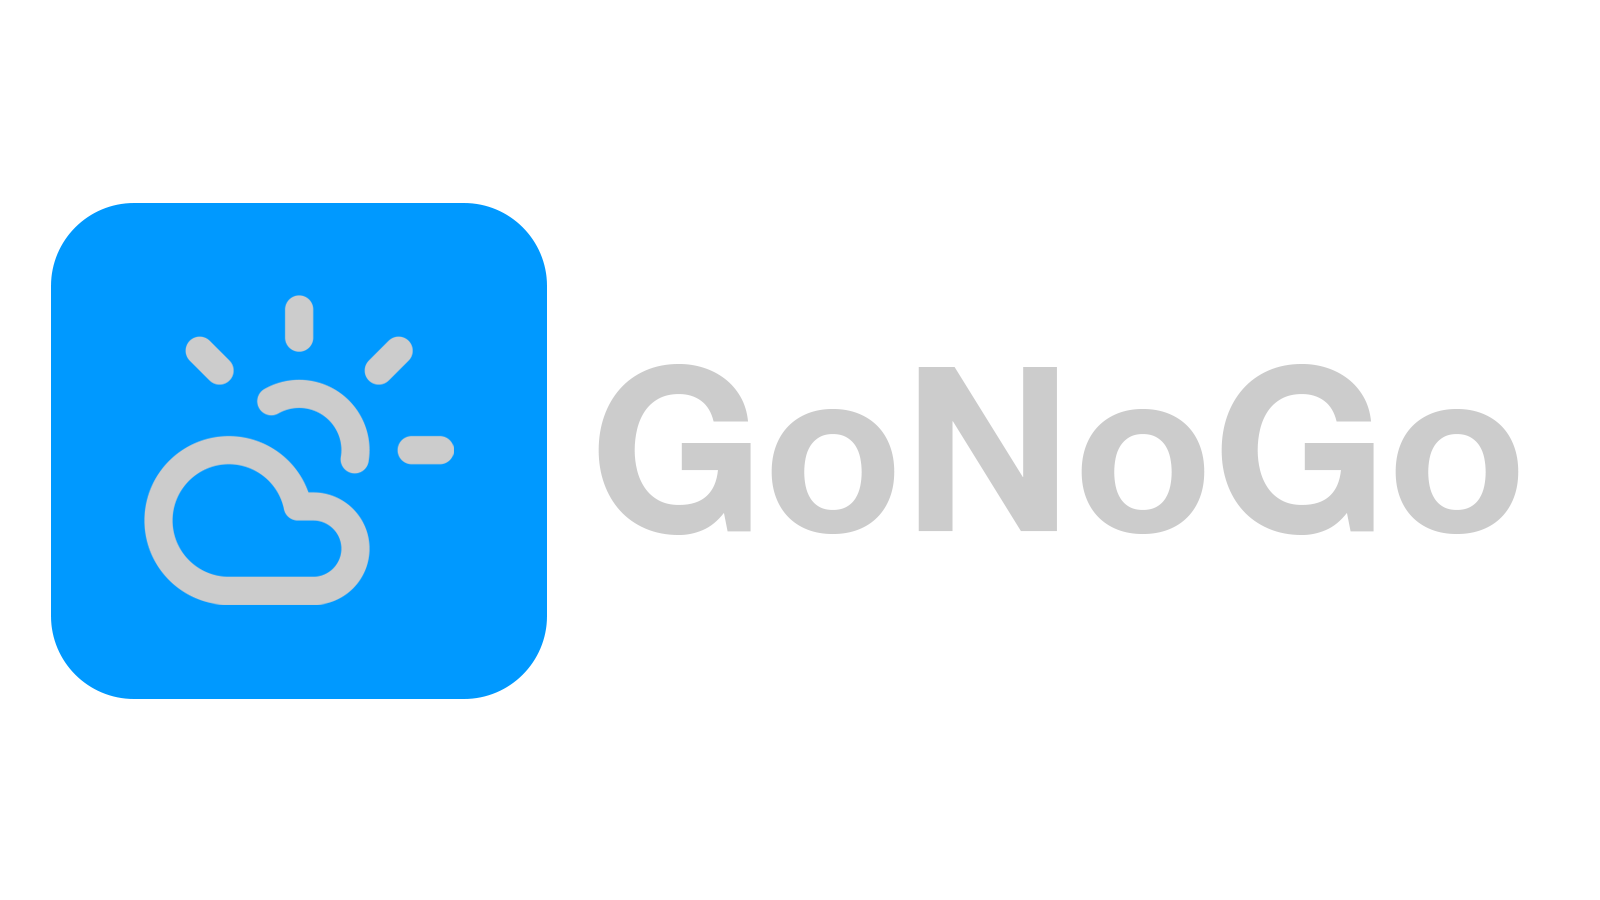
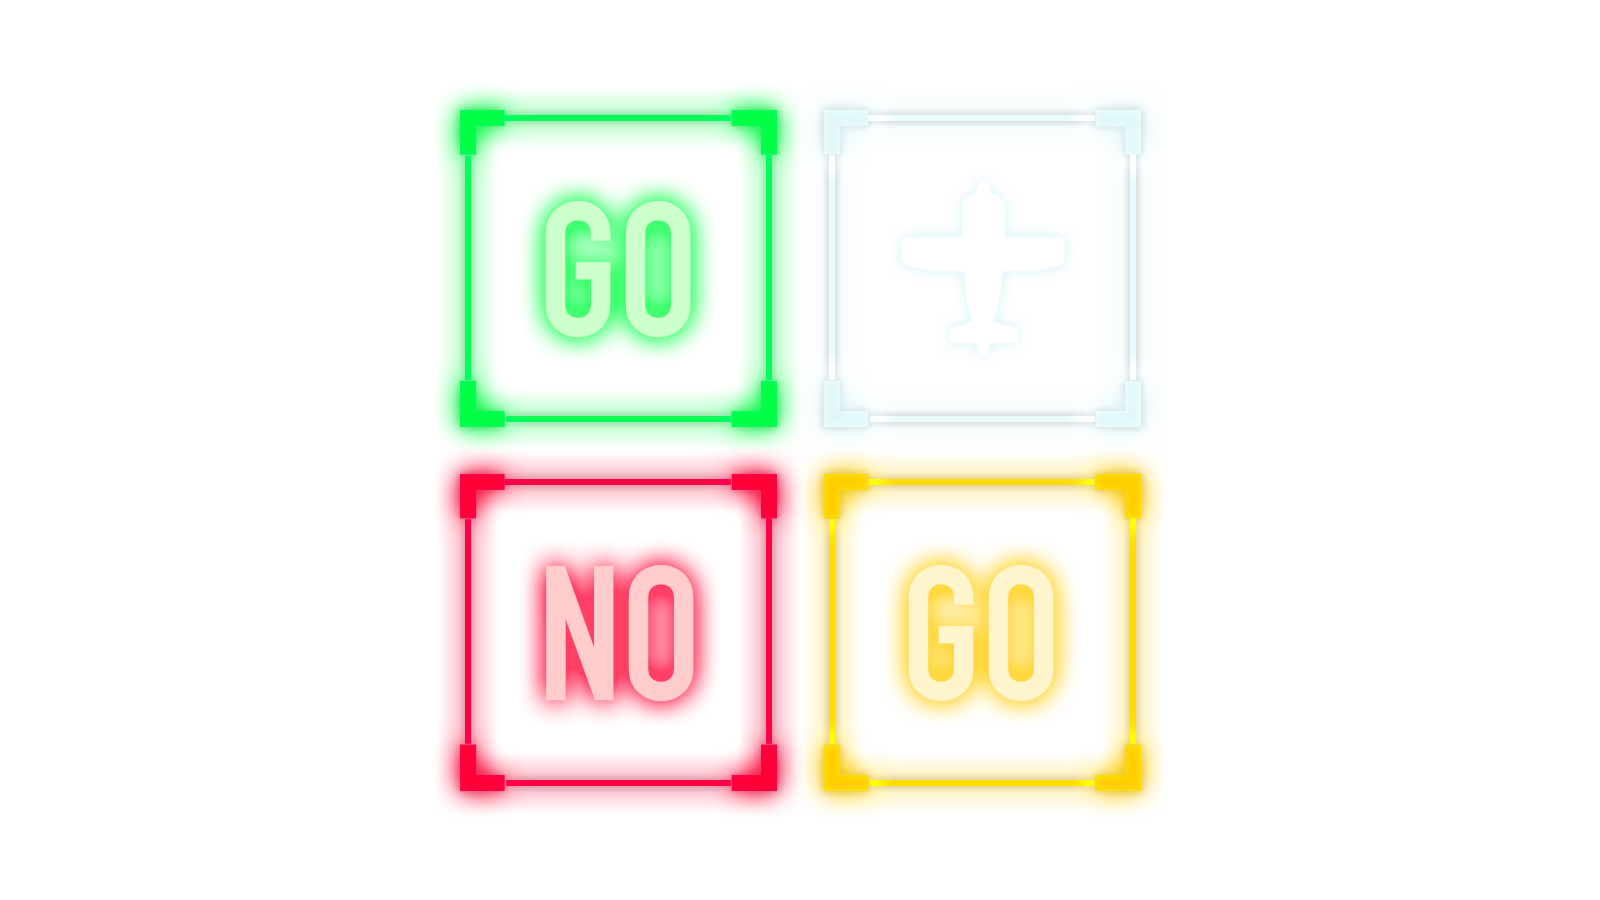
Content Updates

diff --git a/src/content/config.ts b/src/content/config.ts
@@ -20,7 +20,9 @@ const projectsCollection = defineCollection({
     status: statusEnum,
     heroImage: z.string().optional(),
     demoUrl: z.string().url().optional(),
-    repoUrl: z.string().url().optional(),
+    gitUrl: z.string().url().optional(),
+    dockerUrl: z.string().url().optional(),
+    url: z.string().url().optional(),
     order: z.number().default(0),
   }),
 });

diff --git a/src/content/projects/calendar-app.md b/src/content/projects/calendar-app.md
@@ -3,15 +3,13 @@ title: "Calendar App"
 description: "A Simple Self-Hosted Calendar App"
 status: "Active Development"
 demoUrl: "https://calendar-demo.conway.im"
+dockerUrl: "https://hub.docker.com/r/thebronway/calendar-app"
+gitUrl: "https://github.com/thebronway/calendar-app"
 heroImage: "/images/thumbnails/CalendarApp-card.png"
 ---
 # A Simple Self-Hosted Calendar App
 
 > **Note:** This app is nearing its full production release.
-
-**Links:**
-* [GitHub Repository](https://github.com/thebronway/calendar-app)
-* [DockerHub Image](https://hub.docker.com/r/thebronway/calendar-app)
 
 ## Purpose
 I designed this calendar to be self-hosted and easily shared with friends and family. The goal is to keep everyone informed about my travel plans and availability so they can plan accordingly.

diff --git a/src/content/projects/domainctrl.md b/src/content/projects/domainctrl.md
@@ -3,6 +3,8 @@ title: "domainCtrl"
 description: "A Self-Hosted, Automated DDNS & SSL Certificate Manager"
 status: "Active Development"
 demoUrl: "https://domainctrl-demo.conway.im"
+gitUrl: "https://github.com/thebronway/domainCtrl"
+dockerUrl: "https://hub.docker.com/r/thebronway/domainCtrl"
 heroImage: "/images/thumbnails/domainCtrl-card.png"
 ---
 # A Self-Hosted, Automated DDNS & SSL Certificate Manager. 

diff --git a/src/content/projects/gonogo.md b/src/content/projects/gonogo.md
@@ -2,6 +2,7 @@
 title: "GoNoGo"
 description: "A Preflight App for Pilots to Decode Weather, Airspace and NOTAMs"
 status: "Active Development"
+url: "https://gonogoai.conway.im"
 heroImage: "/images/thumbnails/GoNoGo-AI-card.png"
 ---
 # A Preflight App for Pilots to Decode Weather, Airspace and NOTAMs